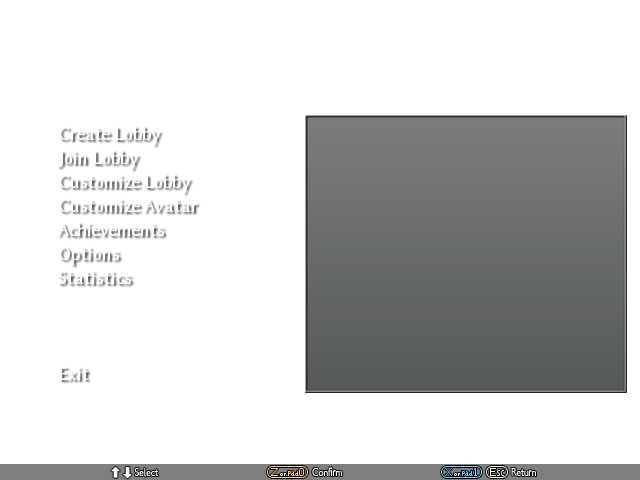
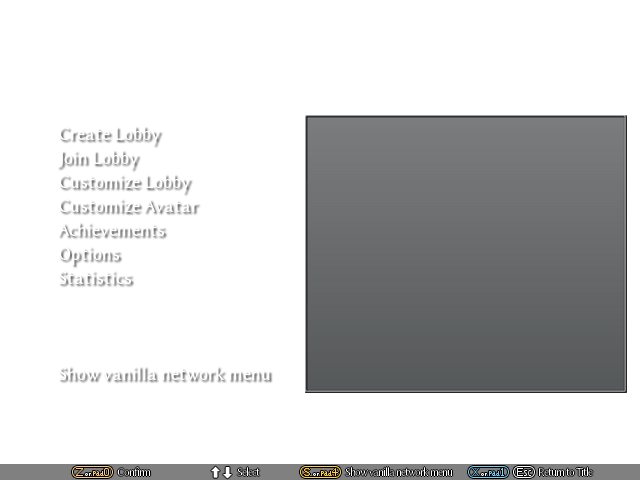
Added more assets and lobby menu is now default

diff --git a/src/SokuMod/main.cpp b/src/SokuMod/main.cpp
@@ -20,6 +20,8 @@ static void (*og_onUpdate)();
 static int (SokuLib::Logo::*og_LogoOnProcess)();
 static int (SokuLib::Battle::*og_BattleOnProcess)();
 static int (SokuLib::MenuConnect::*og_ConnectOnProcess)();
+static int (SokuLib::MenuConnect::*og_ConnectOnRender)();
+static int (SokuLib::MenuConnect::*og_ConnectOnUnknown)();
 static int (SokuLib::BattleWatch::*og_BattleWatchOnProcess)();
 static int (SokuLib::BattleWatch::*og_BattleWatchOnRender)();
 static int (SokuLib::LoadingWatch::*og_LoadingWatchOnProcess)();
@@ -40,8 +42,10 @@ char servHost[64];
 unsigned short servPort;
 bool hasSoku2 = false;
 bool counted = false;
+bool activated = true;
 auto load = std::pair(false, false);
 std::function<int ()> onGameEnd;
+LobbyMenu *menu = nullptr;
 
 std::map<unsigned int, Character> characters{
 	{ SokuLib::CHARACTER_REIMU,     {"Reimu",     "Reimu Hakurei",          "reimu"}},
@@ -140,18 +144,31 @@ void countGame()
 
 int __fastcall ConnectOnProcess(SokuLib::MenuConnect *This)
 {
-	auto res = (This->*og_ConnectOnProcess)();
+	if (!menu)
+		menu = new LobbyMenu(This);
+
+	auto res = activated ? menu->onProcess() : (This->*og_ConnectOnProcess)();
 
 	if (*(byte*)0x0448e4a != 0x30 && SokuLib::inputMgrs.input.changeCard == 1) {
-		try {
-			SokuLib::activateMenu(new LobbyMenu(This));
-			SokuLib::playSEWaveBuffer(0x28);
-		} catch (std::exception &e) {
-			MessageBox(SokuLib::window, e.what(), "Loading error", MB_ICONERROR);
-			SokuLib::playSEWaveBuffer(0x29);
-		}
+		SokuLib::playSEWaveBuffer(0x28);
+		activated = !activated;
+	}
+	if (res != 1) {
+		activated = true;
+		delete menu;
+		menu = nullptr;
 	}
 	return res;
+}
+
+int __fastcall ConnectOnRender(SokuLib::MenuConnect *This)
+{
+	return activated ? (menu ? menu->onRender() : 0) : (This->*og_ConnectOnRender)();
+}
+
+int __fastcall ConnectOnUnknown(SokuLib::MenuConnect *This)
+{
+	return activated ? (menu ? menu->_(), 0 : 0) : (This->*og_ConnectOnUnknown)();
 }
 
 int __fastcall LogoOnProcess(SokuLib::Logo *This)
@@ -501,6 +518,8 @@ extern "C" __declspec(dllexport) bool Initialize(HMODULE hMyModule, HMODULE hPar
 	og_LogoOnProcess         = SokuLib::TamperDword(&SokuLib::VTable_Logo.onProcess,         LogoOnProcess);
 	og_BattleOnProcess       = SokuLib::TamperDword(&SokuLib::VTable_Battle.onProcess,       BattleOnProcess);
 	og_ConnectOnProcess      = SokuLib::TamperDword(&SokuLib::VTable_ConnectMenu.onProcess,  ConnectOnProcess);
+	og_ConnectOnRender       = SokuLib::TamperDword(&SokuLib::VTable_ConnectMenu.onRender,   ConnectOnRender);
+	og_ConnectOnUnknown      = SokuLib::union_cast<int (SokuLib::MenuConnect::*)()>(SokuLib::TamperDword(&SokuLib::VTable_ConnectMenu.unknown, ConnectOnUnknown));
 	og_BattleWatchOnProcess  = SokuLib::TamperDword(&SokuLib::VTable_BattleWatch.onProcess,  BattleWatchOnProcess);
 	og_BattleWatchOnRender   = SokuLib::TamperDword(&SokuLib::VTable_BattleWatch.onRender,   BattleWatchOnRender);
 	og_LoadingWatchOnProcess = SokuLib::TamperDword(&SokuLib::VTable_LoadingWatch.onProcess, LoadingWatchOnProcess);
@@ -537,6 +556,11 @@ extern "C" __declspec(dllexport) bool Initialize(HMODULE hMyModule, HMODULE hPar
 
 	FlushInstructionCache(GetCurrentProcess(), nullptr, 0);
 	return true;
+}
+
+extern "C" __declspec(dllexport) int getPriority()
+{
+	return -50000;
 }
 
 extern "C" int APIENTRY DllMain(HMODULE hModule, DWORD fdwReason, LPVOID lpReserved) {

diff --git a/src/SokuMod/Connection.cpp b/src/SokuMod/Connection.cpp
@@ -8,6 +8,8 @@
 std::mutex logMutex;
 #endif
 #include <cstring>
+#include <vector>
+#include <functional>
 #include <Exceptions.hpp>
 #include "Connection.hpp"
 #include "getPublicIp.hpp"
@@ -425,24 +427,57 @@ std::vector<std::string> Connection::getMessages() const
 	return result;
 }
 
+static void playerBasicAnimation(Player &player, const LobbyData::Avatar &avatar)
+{
+	if (player.dir & 1)
+		player.pos.x += PLAYER_H_SPEED;
+	if (player.dir & 2)
+		player.pos.x -= PLAYER_H_SPEED;
+	if (player.dir & 4)
+		player.pos.y += PLAYER_V_SPEED;
+	if (player.dir & 8)
+		player.pos.y -= PLAYER_V_SPEED;
+	player.animationCtr++;
+	if (player.animationCtr > avatar.animationsStep) {
+		player.currentAnimation++;
+		player.currentAnimation %= avatar.nbAnimations;
+		player.animationCtr = 0;
+	}
+	player.animation = (player.dir & 0b00011) != 0;
+}
+
+static void playerSuwakoAnimation(Player &player, const LobbyData::Avatar &avatar)
+{
+	if (player.dir & 1)
+		player.pos.x += PLAYER_H_SPEED;
+	if (player.dir & 2)
+		player.pos.x -= PLAYER_H_SPEED;
+	if (player.dir & 4)
+		player.pos.y += PLAYER_V_SPEED;
+	if (player.dir & 8)
+		player.pos.y -= PLAYER_V_SPEED;
+	player.animationCtr++;
+	if (player.animationCtr > avatar.animationsStep) {
+		player.currentAnimation++;
+		player.currentAnimation %= avatar.nbAnimations;
+		player.animationCtr = 0;
+	}
+	player.animation = (player.dir & 0b00011) != 0;
+}
+
+std::vector<std::function<void (Player &, const LobbyData::Avatar &)>> Connection::_playerUpdateHandles{
+	playerBasicAnimation,
+	playerSuwakoAnimation
+};
+
 void Connection::updatePlayers(const std::vector<LobbyData::Avatar> &avatars)
 {
 	this->_playerMutex.lock();
 	for (auto &p : this->_players) {
-		if (p.second.dir & 1)
-			p.second.pos.x += PLAYER_H_SPEED;
-		if (p.second.dir & 2)
-			p.second.pos.x -= PLAYER_H_SPEED;
-		if (p.second.dir & 4)
-			p.second.pos.y += PLAYER_V_SPEED;
-		if (p.second.dir & 8)
-			p.second.pos.y -= PLAYER_V_SPEED;
-		p.second.animationCtr++;
-		if (p.second.animationCtr > avatars[p.second.player.avatar].animationsStep) {
-			p.second.currentAnimation++;
-			p.second.currentAnimation %= avatars[p.second.player.avatar].nbAnimations;
-			p.second.animationCtr = 0;
-		}
+		// TODO: Check if avatar is valid or not
+		auto &avatar = avatars[p.second.player.avatar];
+
+		Connection::_playerUpdateHandles[avatar.animationStyle](p.second, avatar);
 	}
 	this->_playerMutex.unlock();
 }

diff --git a/src/SokuMod/LobbyMenu.cpp b/src/SokuMod/LobbyMenu.cpp
@@ -19,6 +19,8 @@
 
 #define CRenderer_Unknown1 ((void (__thiscall *)(int, int))0x404AF0)
 
+extern bool activated;
+
 enum MenuItems {
 	MENUITEM_CREATE_LOBBY,
 	MENUITEM_JOIN_LOBBY,
@@ -261,7 +263,7 @@ bool LobbyMenu::_normalMenuUpdate()
 		this->_menuCursor %= 8;
 		SokuLib::playSEWaveBuffer(0x27);
 	}
-	if (SokuLib::inputMgrs.input.changeCard == 1) {
+	if (SokuLib::inputMgrs.input.spellcard == 1) {
 		setInputBoxCallbacks([this](const std::string &value){
 			GuardedMutex m{this->_connectionsMutex};
 
@@ -310,7 +312,8 @@ bool LobbyMenu::_normalMenuUpdate()
 			SokuLib::activateMenu(new StatsMenu());
 			break;
 		case MENUITEM_EXIT:
-			return false;
+			activated = false;
+			break;
 		}
 	}
 	return true;

diff --git a/src/SokuMod/InLobbyMenu.cpp b/src/SokuMod/InLobbyMenu.cpp
@@ -476,7 +476,7 @@ int InLobbyMenu::onRender()
 				static_cast<int>(player.pos.x) - static_cast<int>(avatar.sprite.getSize().x / 2) + this->_translate.x,
 				480 - static_cast<int>(player.pos.y + avatar.sprite.getSize().y) + this->_translate.y
 			});
-			avatar.sprite.rect.top = avatar.sprite.rect.height * ((player.dir & 0b00011) != 0);
+			avatar.sprite.rect.top = avatar.sprite.rect.height * player.animation;
 			avatar.sprite.rect.left = player.currentAnimation * avatar.sprite.rect.width;
 			avatar.sprite.setMirroring((player.dir & 0b10000) == 0, false);
 		#ifdef _DEBUG

diff --git a/src/SokuMod/LobbyData.cpp b/src/SokuMod/LobbyData.cpp
@@ -87,6 +87,8 @@ void LobbyData::_loadAvatars()
 		avatar.nbAnimations = val["animations"];
 		avatar.animationsStep = val["anim_step"];
 		avatar.accessoriesPlacement = val["accessories"];
+		if (val.contains("animation_style"))
+			avatar.animationStyle = val["animation_style"];
 		avatar.sprite.texture.loadFromFile((std::filesystem::path(profileFolderPath) / val["spritesheet"].get<std::string>()).string().c_str());
 		avatar.sprite.rect.width = avatar.sprite.texture.getSize().x / avatar.nbAnimations;
 		avatar.sprite.rect.height = avatar.sprite.texture.getSize().y / 2;

diff --git a/src/SokuMod/Connection.hpp b/src/SokuMod/Connection.hpp
@@ -43,6 +43,8 @@ private:
 	std::map<uint32_t, Player> _players;
 	std::vector<std::string> _messages; //TODO: properly handle channels
 
+	static std::vector<std::function<void (Player &, const LobbyData::Avatar &)>> _playerUpdateHandles;
+
 	void _netLoop();
 	void _posLoop();
 	void _handlePacket(const Lobbies::Packet &packet, size_t &size);

diff --git a/src/SokuMod/Player.hpp b/src/SokuMod/Player.hpp
@@ -20,6 +20,7 @@ struct Player {
 	Lobbies::LobbySettings settings;
 	Lobbies::PlayerCustomization player;
 	uint8_t dir = 0;
+	uint8_t animation = 0;
 	SokuLib::Vector2<uint32_t> pos = {0, 0};
 	uint8_t battleStatus = 0;
 	uint8_t machineId = 0;

diff --git a/src/SokuMod/LobbyData.hpp b/src/SokuMod/LobbyData.hpp
@@ -85,6 +85,7 @@ public:
 		unsigned accessoriesPlacement = 0;
 		unsigned animationsStep = 0;
 		unsigned nbAnimations = 0;
+		unsigned animationStyle = 0;
 		Achievement *requirement = nullptr;
 
 		Avatar() = default;
